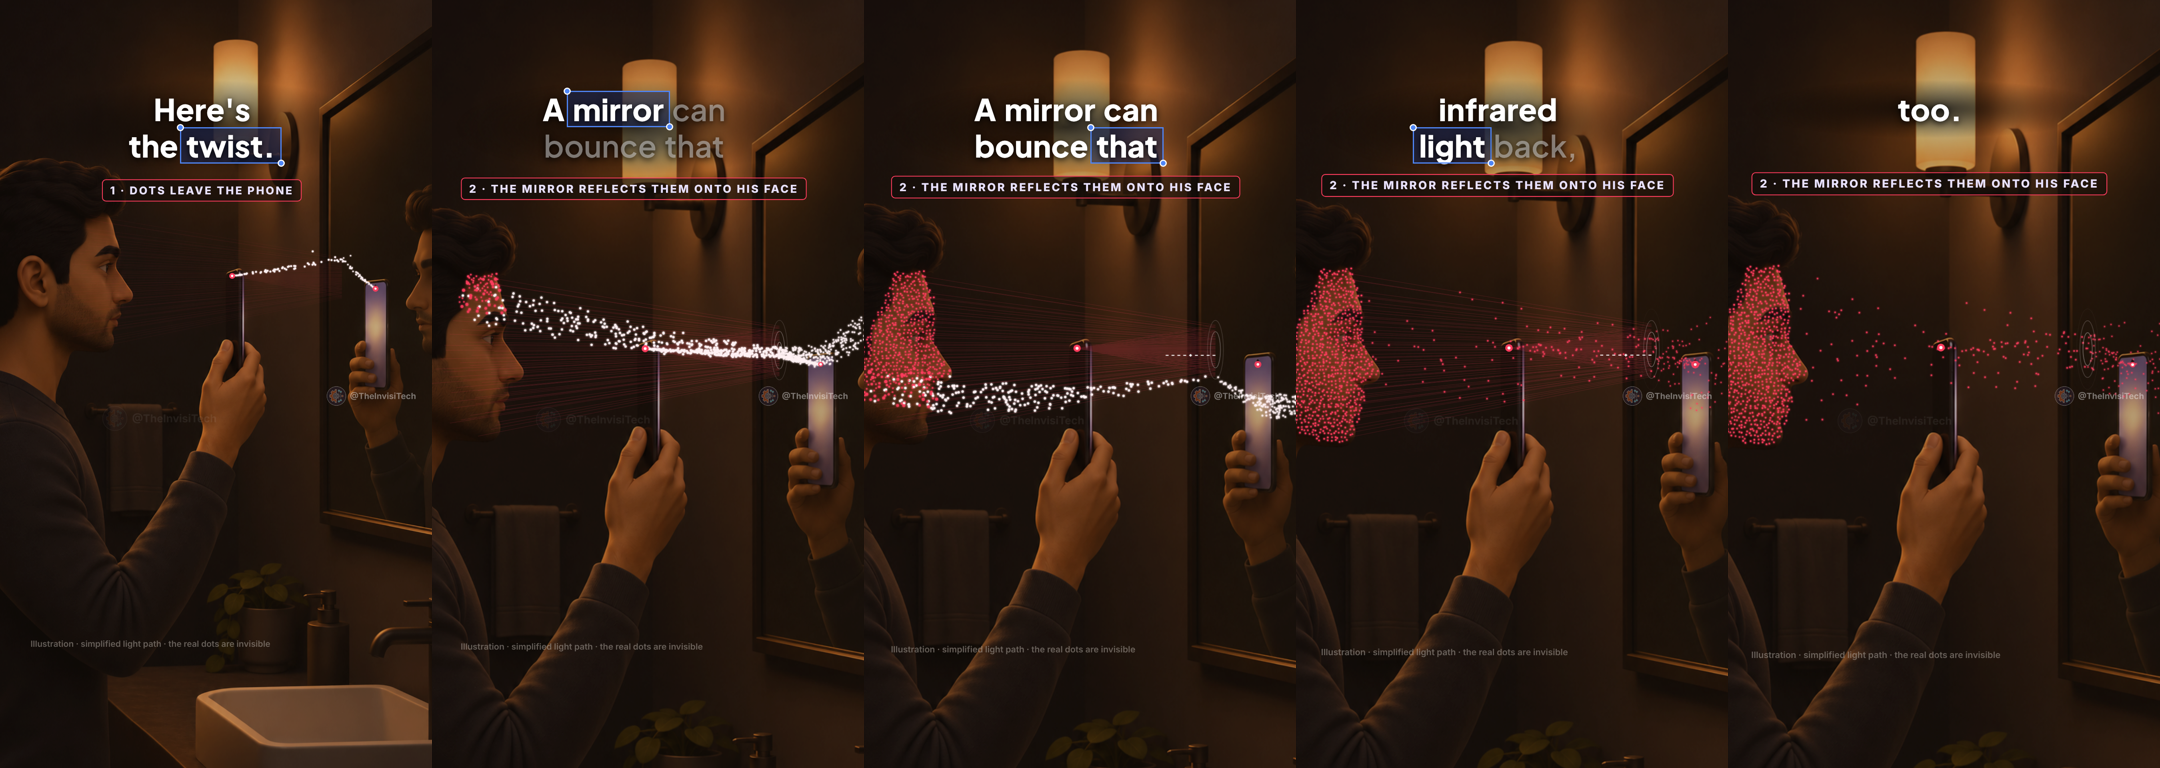
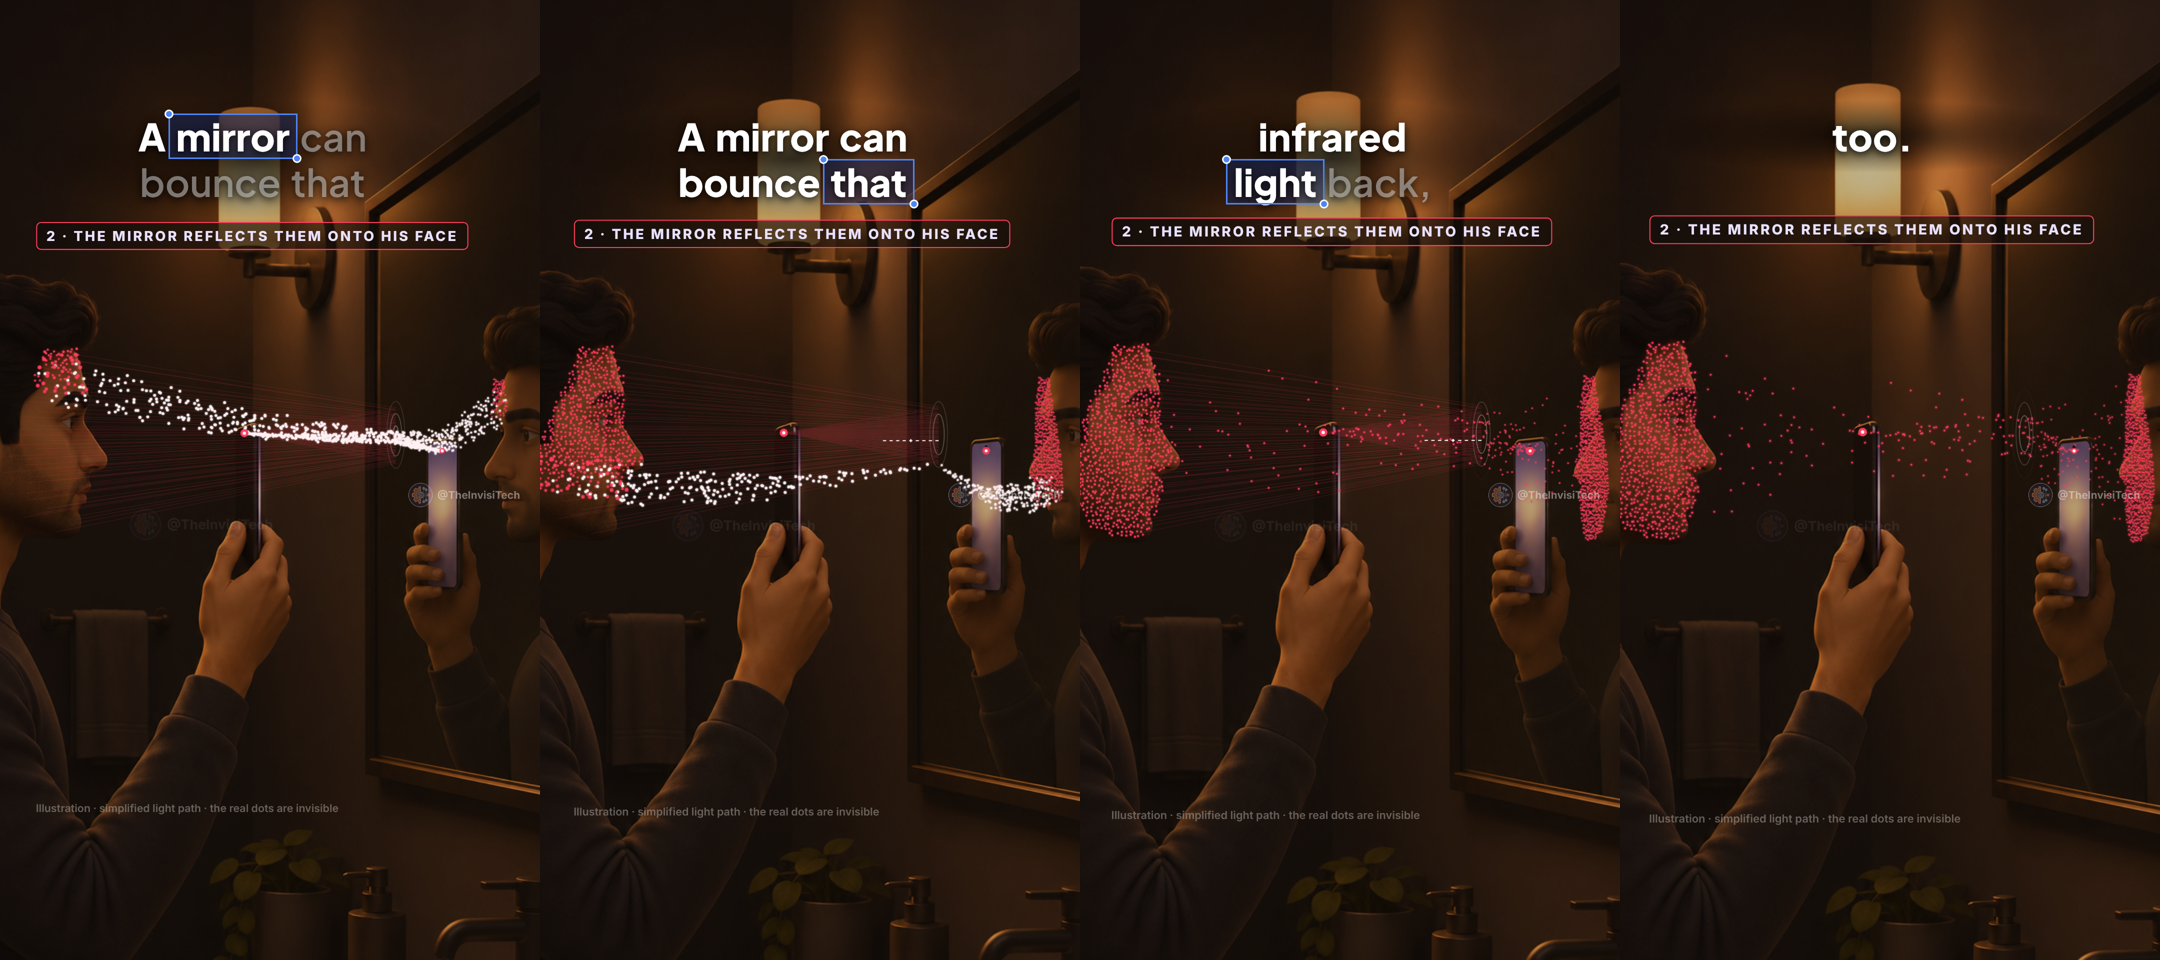
Mirror Short: mirror framing includes his reflection with the dots on it
Claude-Session: https://claude.ai/code/session_01GXcKc5WnFrVWBsHLe8YpAy

diff --git a/face-id/mirror-short/src/scenes/Mirror.tsx b/face-id/mirror-short/src/scenes/Mirror.tsx
@@ -50,7 +50,7 @@ export const Mirror: React.FC = () => {
   return (
     <AbsoluteFill style={{ backgroundColor: C.bg, overflow: 'hidden' }}>
       <div style={{ position: 'absolute', inset: 0, ...(l >= MIR.glass && l < MIR.wide
-        ? (() => { const px = 520 * K, py = 620 * K, sc = 1.5 * (1 + 0.08 * ((l - MIR.glass) / (MIR.wide - MIR.glass)));      // one framing: his face, the phone and the glass together
+        ? (() => { const px = 548 * K, py = 625 * K, sc = 1.36 * (1 + 0.05 * ((l - MIR.glass) / (MIR.wide - MIR.glass)));      // one framing: his face, the phone, the glass and his reflection in it
           return { transformOrigin: '0 0', transform: `translate(${540 - px * sc}px, ${900 - py * sc}px) scale(${sc})` }; })()
         : { transformOrigin: '640px 700px', transform: `scale(${s})` }) }}>
         <Img src={staticFile('bathroom_side.png')} style={{ position: 'absolute', left: 0, top: 0, width: 1080, height: 1672 * K, filter: `brightness(${1 - 0.25 * ramp(l, 30, 60)})` }} />
@@ -65,7 +65,7 @@ export const Mirror: React.FC = () => {
             {FACE_DOTS.map((f, i) => {
               const m = hit(f), a = len(P, m), b = len(m, f), t0 = launch(f), p = (l - t0) / FLY;
               if (p <= 0) return null;
-              if (p >= 1) { const g = mir(f); return <g key={i}><circle cx={f[0]} cy={f[1]} r={1.25 * (1 + 0.8 * (1 - ramp(l, t0 + FLY, t0 + FLY + 5)))} fill={C.ir} opacity={0.75 + 0.25 * f[2]} />{i % 2 === 0 && <circle cx={g[0]} cy={g[1]} r={1.05} fill={C.ir} opacity={0.7} />}</g>; }
+              if (p >= 1) { const g = mir(f); return <g key={i}><circle cx={f[0]} cy={f[1]} r={1.25 * (1 + 0.8 * (1 - ramp(l, t0 + FLY, t0 + FLY + 5)))} fill={C.ir} opacity={0.75 + 0.25 * f[2]} /><circle cx={g[0]} cy={g[1]} r={1.0} fill={C.ir} opacity={0.75} /></g>; }
               const d = p * (a + b), q = d < a ? [P[0] + (m[0] - P[0]) * d / a, P[1] + (m[1] - P[1]) * d / a] : [m[0] + (f[0] - m[0]) * (d - a) / b, m[1] + (f[1] - m[1]) * (d - a) / b];
               const g = mir(q); return <g key={i}><circle cx={q[0]} cy={q[1]} r={1.7} fill={C.irCore} /><circle cx={g[0]} cy={g[1]} r={1.4} fill={C.irCore} opacity={0.85} /></g>;
             })}
